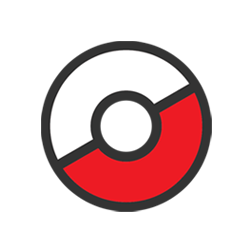
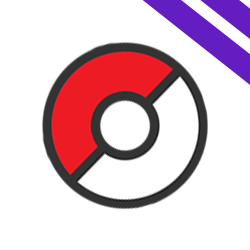
feat: styles finished

diff --git a/src/component/slidesPokemon/slidesPokemon.module.scss b/src/component/slidesPokemon/slidesPokemon.module.scss
@@ -3,87 +3,7 @@
     width: 100%;
     height: 100%;
     position: relative;
-    .pokedex{
-        top: 0;
-        bottom: 0;
-        backdrop-filter: blur(5px);
-        display: none;
-        justify-content: center;
-        align-items: center;
-        width: 100%;
-        height: 100%;
-        background-color: $background;
-        position: absolute;
-        .close{
-            z-index: 1;
-            position: absolute;
-            background-color: transparent;
-            border: none;
-            right: 10px;
-            top: -11rem;
-            cursor: pointer;
-            transition: all 0.3s;
-            img{
-                width: 25px;
-            }
-            &:hover{
-                transform: scale(110%);
-                transition: all 0.3s;
-            }
-        }
-        .pokeInfo{
-            margin-top: -12rem;
-            width: 100%;
-            height: 100%;
-            max-width: 700px;
-            max-height: 300px;
-            z-index: 1;
-            position: absolute;
-            .pokecard{
-                margin-left: 100px;
-                display: flex;
-                gap: 20px;
-                justify-content: center;
-                .pokeCard_info{
-                    display: flex;
-                    flex-direction: column;
-                    justify-content: center;
-                    border-radius: 10px;
-                    margin: 5px 0;
-                    text-align: center;
-                    width: 100%;
-                    max-width: 250px;
-                    max-height: 230px;
-                    background-color: $white;
-                    border: 2px solid $black;
-                    .type{
-                        height: 25%;
-                        display: flex;
-                        justify-content: center;
-                        padding: 10px 0;
-                        background-color: $black;
-                        color: $white;
-                        font-size: 25px;
-                    }
-                    .abilities{
-                        height: 100%;
-                        background-color: $white;
-                        color: $black;
-                        font-size: 25px;
-                        .title{
-                            padding: 10px 0;
-                            background-color: $yellow;
-                            font-size: 25px;
-                            margin-bottom: 5px;
-                        }
-                    }
-                }
-            }
-        }
-    }
-    .activePokedex{
-        display: flex;
-    }
+    overflow: hidden;
     .container_slides_pokemon{
         display: flex;
         justify-content: center;
@@ -114,5 +34,91 @@
             font-size: 60px;
             color: $yellow;
         }
+    }
+    .containerPokedex{
+        z-index: 1;
+        position: absolute;
+        display: none;
+        justify-content: center;
+        align-items: center;
+        backdrop-filter: blur(5px);
+        width: 100%;
+        height: 100%;
+        top: 0;
+        .pokedex{
+            margin-top: -120px;
+            position: relative;
+            z-index: 1;
+            display: flex;
+            justify-content: center;
+            align-items: center;
+            max-width: 700px;
+            max-height: 500px; 
+            .pokeCard{
+                position: absolute;
+                z-index: 1;
+                left: 130px;
+            }
+            .pokeInfo{
+                z-index: 1;
+                position: absolute;
+                top: 60px;
+                right: 50px;
+                display: flex;
+                flex-direction: column;
+                justify-content: center;
+                border-radius: 10px;
+                margin: 5px 0;
+                text-align: center;
+                width: 100%;
+                max-width: 250px;
+                max-height: 230px;
+                background-color: $white;
+                border: 2px solid $black;
+                .type{
+                    height: 25%;
+                    display: flex;
+                    justify-content: center;
+                    padding: 10px 0;
+                    background-color: $black;
+                    color: $white;
+                    font-size: 25px;
+                }
+                .abilities{
+                    height: 100%;
+                    background-color: $white;
+                    color: $black;
+                    font-size: 25px;
+                    .title{
+                        padding: 10px 0;
+                        background-color: $yellow;
+                        font-size: 25px;
+                        margin-bottom: 5px;
+                    }
+                }
+            }
+            .close{
+                z-index: 1;
+                position: absolute;
+                background-color: transparent;
+                border: none;
+                right: 8px;
+                top: 15px;
+                cursor: pointer;
+                transition: all 0.3s;
+                img{
+                    width: 25px;
+                }
+                &:hover{
+                    transform: scale(110%);
+                    transition: all 0.3s;
+                }
+            }
+        }
+    }
+    .activePokedex{
+        display: flex;
+        justify-content: center;
+        align-items: center;
     }
 }

diff --git a/src/component/slidesPokemon/slidesPokemon.tsx b/src/component/slidesPokemon/slidesPokemon.tsx
@@ -4,6 +4,7 @@ import PokeCard from "../pokeCard/pokeCard";
 import React, {useState, useEffect} from 'react'
 import { Button } from 'reactstrap';
 import Pokedex from '../pokedex/pokedex';
+import Background from '../background/background';
 
 const SlidesPokemon = () => {
     const [selectedPokemon, setSelectedPokemon] = useState<Pokemon | null>(null);
@@ -34,7 +35,7 @@ const SlidesPokemon = () => {
 
     const handlePokedexOpen = (pokemon: Pokemon) => {
         setPokedexOpen(true);
-        setSelectedPokemon(pokemon)
+        setSelectedPokemon(pokemon);
     }
     const handlePokedexClose = () => {
         setSelectedPokemon(null);
@@ -44,6 +45,7 @@ const SlidesPokemon = () => {
     return (
         <>  
             <div className={styles.container_pokemons}>
+                <Background/>
                 <div className={styles.container_slides_pokemon}>
                     {pokemons.map((pokemon) => (
                         <div key={pokemon.name} onClick={() => handlePokedexOpen(pokemon)}>
@@ -56,28 +58,28 @@ const SlidesPokemon = () => {
                     <span className={styles.span}>{currentPage}</span>
                     <Button className={styles.btn} onClick={() => setCurrentPage(currentPage + 1)}>Próxima</Button>
                 </div>
-                <div className={`${styles.pokedex} ${pokedexOpen ? styles.activePokedex : ''}`}>
-                    <div className={styles.pokeInfo}>
-                        <div className={styles.pokecard}>
+                <div className={`${styles.containerPokedex} ${pokedexOpen ? styles.activePokedex : ''}`}>
+                    <div className={styles.pokedex}>
+                        <div className={styles.pokeCard}>
                             {selectedPokemon && (
                                 <PokeCard name={selectedPokemon.name} imageUrl={selectedPokemon.sprites.other['official-artwork'].front_default}/>
                             )}
-                            <div className={styles.pokeCard_info}>
-                                <div className={styles.type}>
-                                    {selectedPokemon?.types?.map((type, index) => (
-                                        <p>{index > 0 && ' / '}{type.type.name}</p>
-                                    ))}
+                        </div>
+                        <div className={styles.pokeInfo}>
+                            <div className={styles.type}>
+                                {selectedPokemon?.types?.map((type, index) => (
+                                    <p>{index > 0 && ' / '}{type.type.name}</p>
+                                ))}
                                 </div> 
                                 <div className={styles.abilities}>
                                     <p className={styles.title}>Habilidades</p>
                                     {selectedPokemon?.abilities?.map((abilities, index) => (
-                                        <p key={index} className={styles.skill}>{index + 1} - {abilities.ability.name}</p>
-                                    ))}
-                                </div> 
-                            </div>
+                                    <p key={index} className={styles.skill}>{index + 1} - {abilities.ability.name}</p>
+                                ))}
+                            </div>                         
                         </div>
+                        <Pokedex button={<Button onClick={handlePokedexClose} className={styles.close}><img src="/close.png" alt="" /></Button>}/>
                     </div>
-                <Pokedex button={<Button onClick={handlePokedexClose} className={styles.close}><img src="/close.png" alt="" /></Button>}/>
                 </div>
             </div>
         </>

diff --git a/pages/_app.tsx b/pages/_app.tsx
@@ -9,7 +9,7 @@ const MyApp = ({Component, pageProps}: AppProps) => {
             <Head>
                 <link rel="preconnect" href="https://fonts.googleapis.com"/>
                 <link href="https://fonts.googleapis.com/css2?family=Pathway+Gothic+One&display=swap" rel="stylesheet"></link>
-                <link rel="shortcut icon" href="/fav_two.png" type="image/x-icon" />
+                <link rel="shortcut icon" href="/favIcon.png" type="image/x-icon" />
             </Head>
             <main>
                 <Component {...pageProps}/>

diff --git a/src/component/home/home.tsx b/src/component/home/home.tsx
@@ -1,13 +1,12 @@
 import styles from '../../../styles/home.module.scss'
-import Background from '../background/background'
 import Footer from '../footer/footer'
 import Navbar from '../header/navbar'
 import SlidesPokemon from '../slidesPokemon/slidesPokemon'
+
 const Home = () => {
     return (
         <div className={styles.container}>
             <Navbar/>
-            <Background/>
             <SlidesPokemon/>
             <Footer/>
         </div>

diff --git a/styles/globals.scss b/styles/globals.scss
@@ -1,11 +1,12 @@
+@import './colors.scss';
 ::-webkit-scrollbar {
     width: 4px;
 }
 ::-webkit-scrollbar-track {
-    background: #fff;
+    background: $primary;
 }
 ::-webkit-scrollbar-thumb {
-    background: #fff;
+    background: $yellow;
 }
 *{
     margin: 0;

diff --git a/src/component/pokeCard/pokeCard.tsx b/src/component/pokeCard/pokeCard.tsx
@@ -1,9 +1,5 @@
+import { PokeProps } from '@/services/pokemonService';
 import styles from './pokeCard.module.scss';
-
-type PokeProps = {
-    name: string;
-    imageUrl: string;
-}
 
 const PokeCard: React.FC<PokeProps> = ({name, imageUrl}) => {
     return(

diff --git a/pages/index.tsx b/pages/index.tsx
@@ -5,7 +5,7 @@ const Index = () => {
     return (
         <>
             <Head>
-                <title>Poke Center</title>
+                <title>Poke Center - @nshcode</title>
             </Head>
             <main>
                 <Home/>

diff --git a/src/services/pokemonService.ts b/src/services/pokemonService.ts
@@ -26,6 +26,10 @@ export type Types = {
           name: string;
      }
 }
+export type PokeProps = {
+     name: string;
+     imageUrl: string;
+ }
 
 const pokemonService = {
      getAllPokemons: async (offset: number, limit: number) => {

diff --git a/src/component/footer/footer.tsx b/src/component/footer/footer.tsx
@@ -4,7 +4,7 @@ const Footer = () => {
     return (
         <>
             <div className={styles.footer}>
-                <p>@nshcode</p>
+                <p>nshcode@gmail.com</p>
             </div>
         </>
     )

diff --git a/src/component/pokeCard/pokeCard.module.scss b/src/component/pokeCard/pokeCard.module.scss
@@ -28,6 +28,7 @@
         transition: all 0.3s;
         cursor: pointer;
         background-image: url('/fav_two.png');
+        border: 3px solid $yellow;
     }
     .name{
         position: absolute;

diff --git a/styles/footer.module.scss b/styles/footer.module.scss
@@ -9,7 +9,7 @@
     width: 100%;
     padding: 0 20px;
     p{
-        font-size: 20px;
+        font-size: 30px;
         color: $white;
     }
 }
